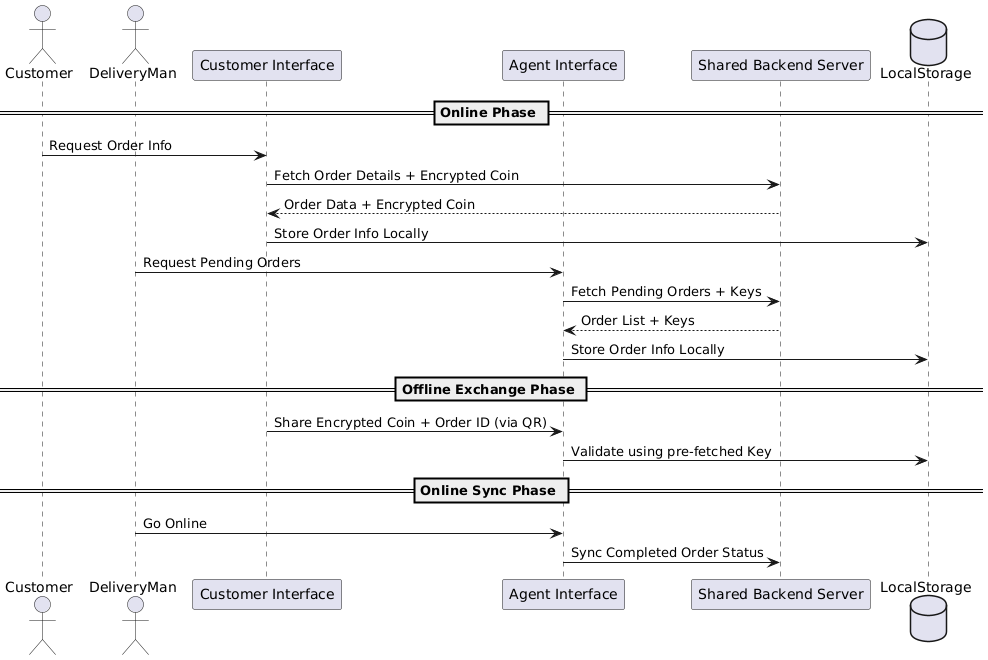
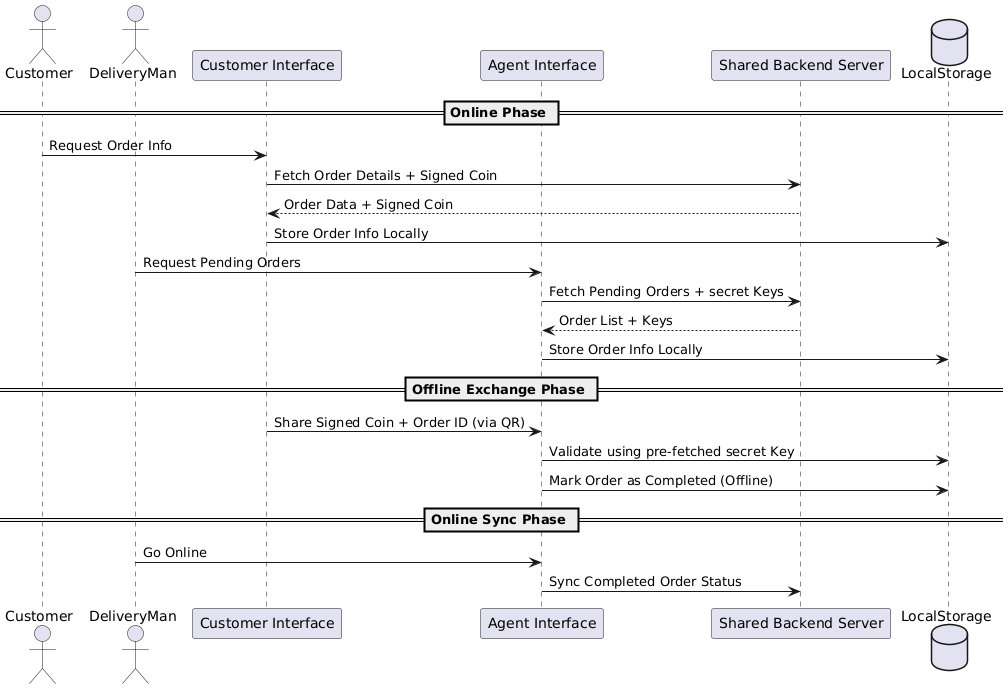
feat: minor changes

diff --git a/README.md b/README.md
@@ -1,6 +1,6 @@
 # Hackon Amazon Season 5
 
-> A transaction system designed to enable payments in remote areas where digital payment methods are not feasible and cash is not a convenient option. This is achieved through the use of encrypted digital coins that can be securely redeemed upon product delivery.
+> A transaction system designed to enable payments in remote areas where digital payment methods are not feasible and cash is not a convenient option. This is achieved through the use of signed digital coins that can be securely redeemed upon product delivery.
 
 ## UML Interaction Diagram
 
